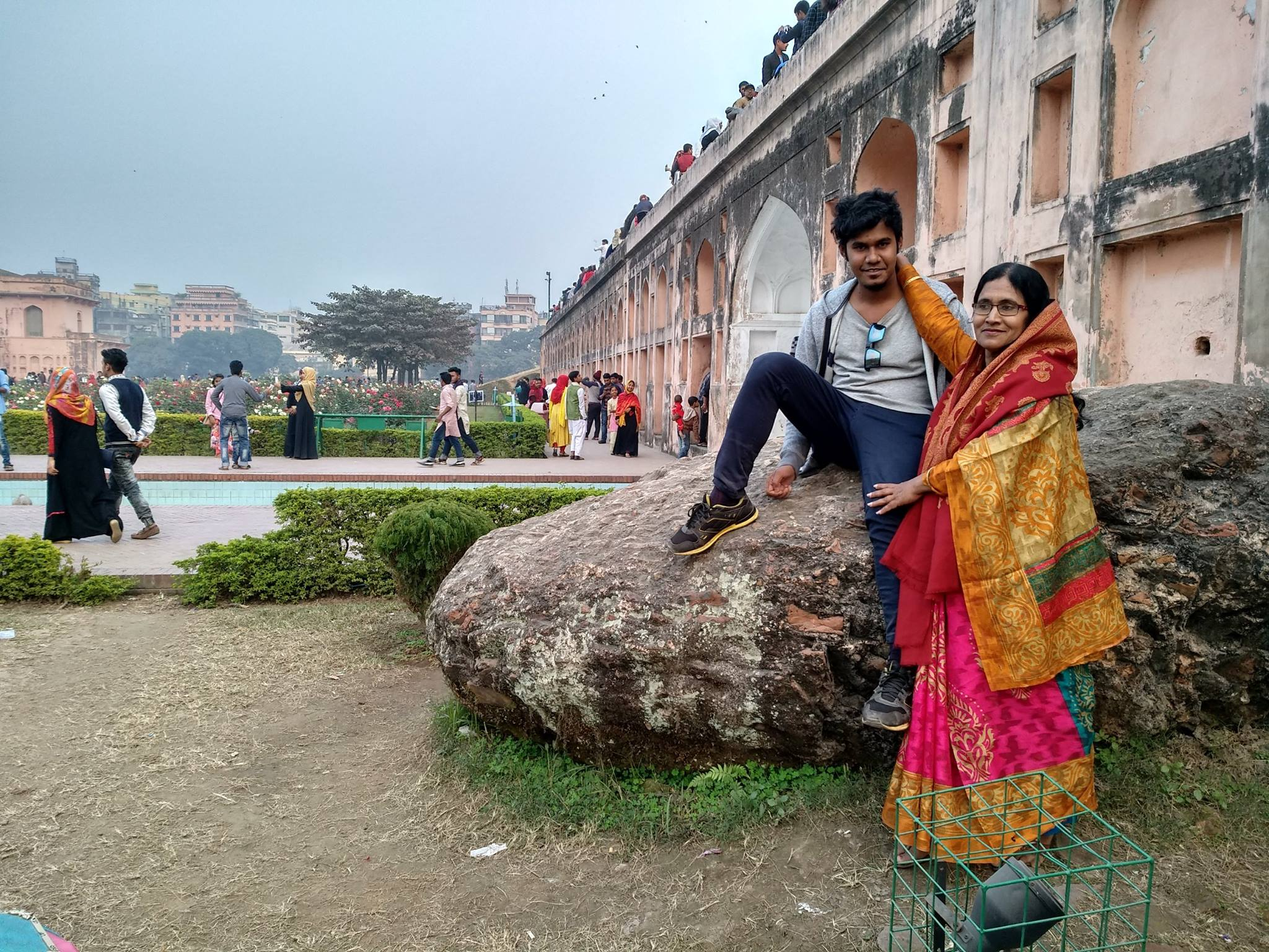
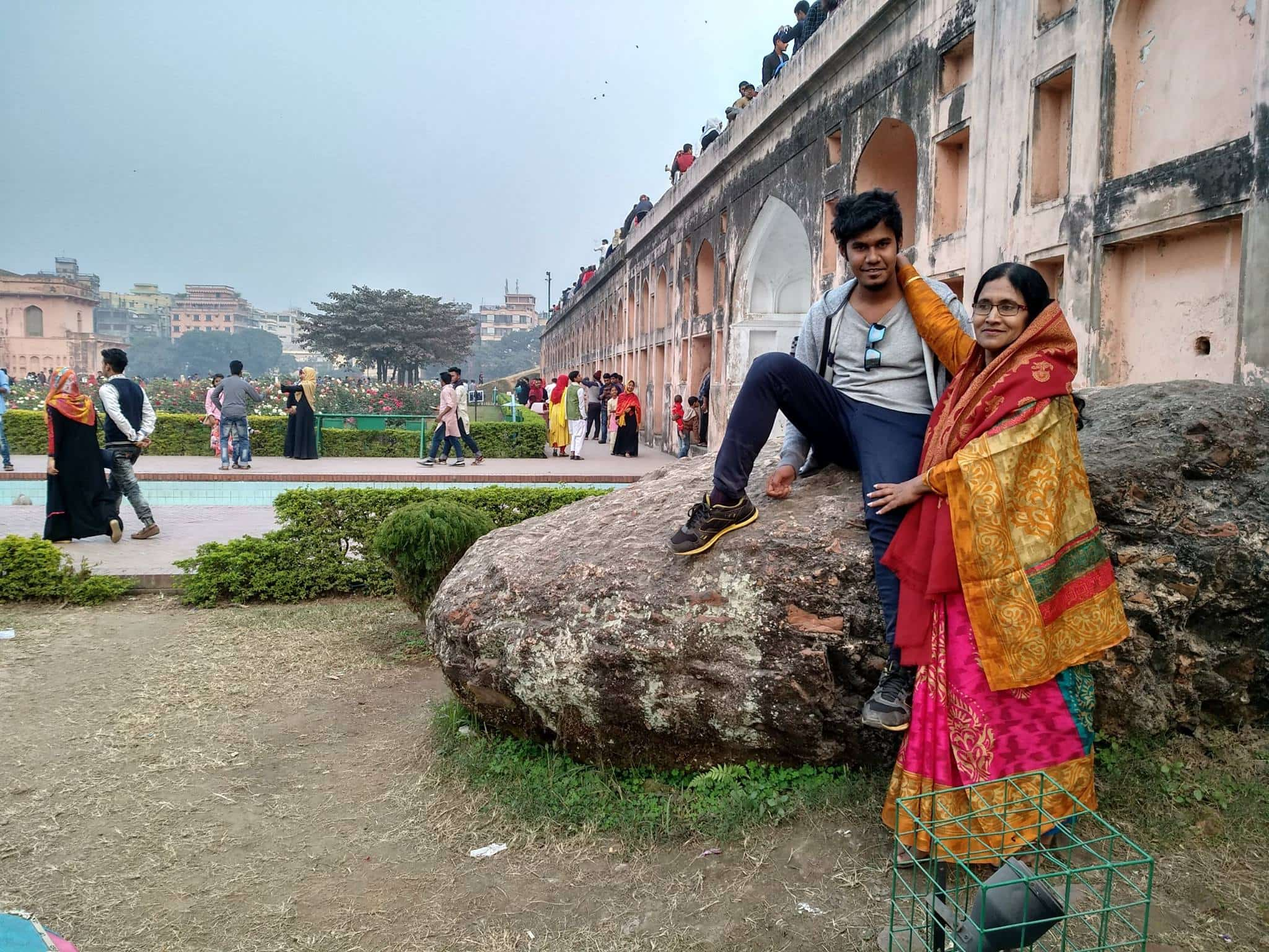
new img

diff --git a/index.html b/index.html
@@ -887,7 +887,7 @@
             </div>
 
             <div class="col-md-2 col-xl-2 order-1 order-md-0 text-center text-md-left mt-5 mt-md-0">
-              <img src="images/26677759_326845967813976_6597149927100852622_o (1).jpg" width="100%" />
+              <img src="images/26677759_326845967813976_6597149927100852622_o.jpg" width="100%" />
             </div>
 
             <div class="col-md-2 col-xl-2 order-1 order-md-0 text-center text-md-left mt-5 mt-md-0">
